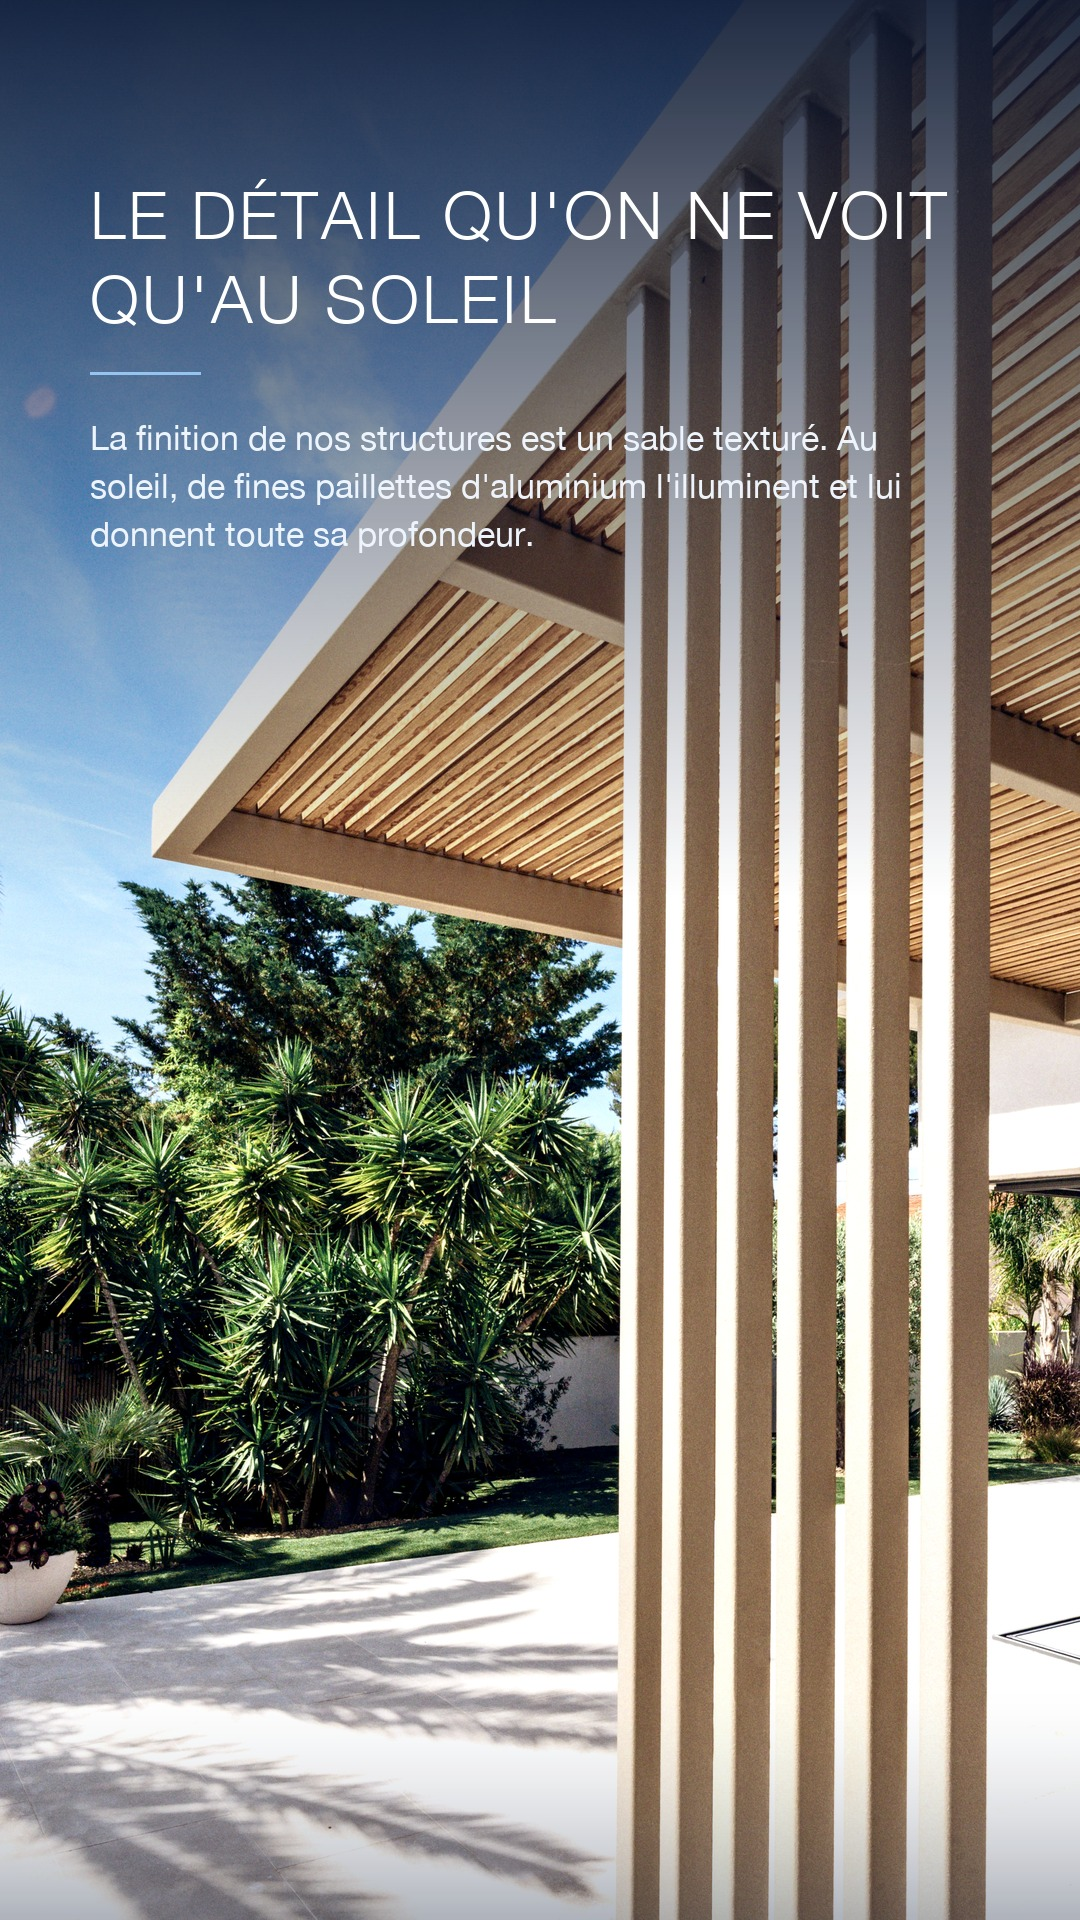
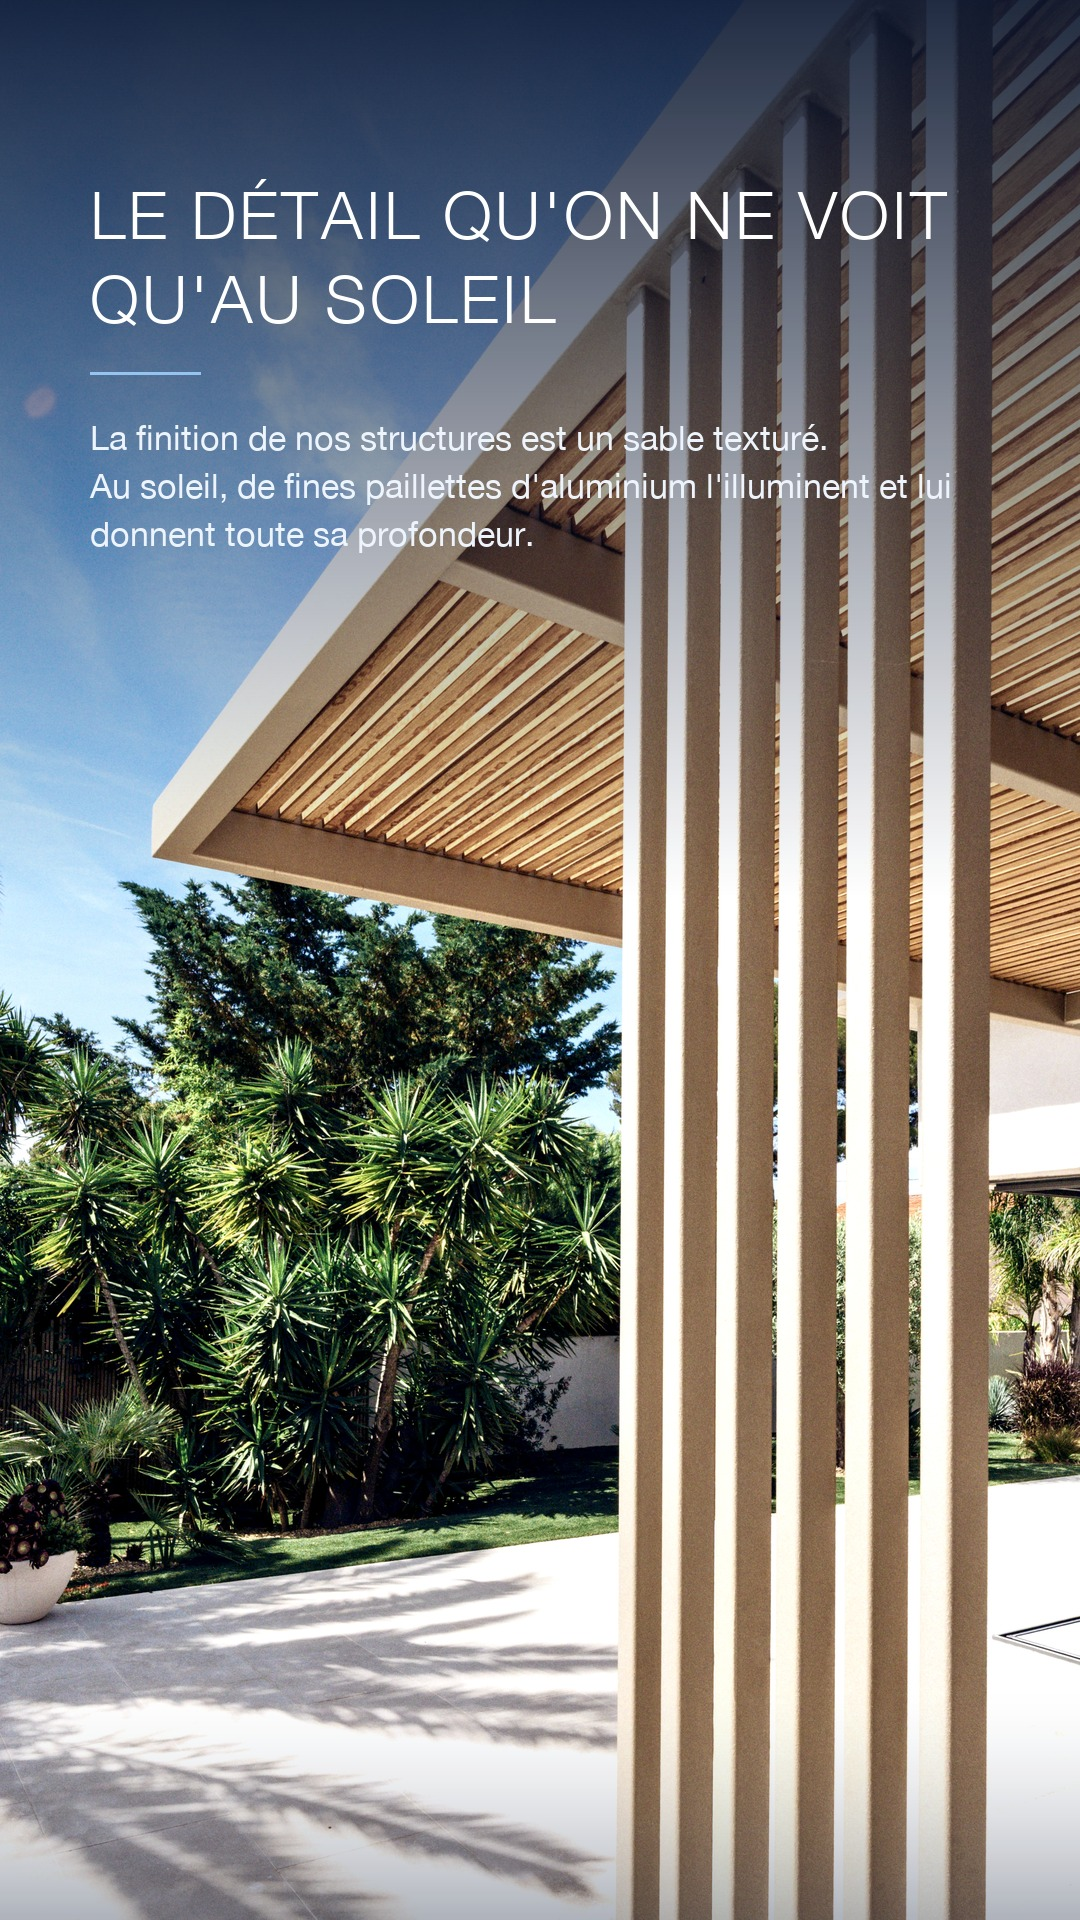
Typo Teck inscrite dans le brief, et retour à la ligne sur la story S3
Le client a validé le duo typographique : titre en Helvetica Neue Light tout
en capitales, sous-titre en Regular en écriture normale. La règle est
désormais dans brand-voice.md et vaut pour TOUS les visuels Teck (Instagram,
publicités, site internet), pas seulement les stories.

Sur la story S3, la phrase « Au soleil… » repart maintenant à la ligne.

Changed region(s): [[0.0917, 0.2188, 0.8556, 0.2812]]

diff --git a/index.html b/index.html
@@ -400,7 +400,8 @@ C'est ça, choisir Teck Aménagement : choisir le naturel et l'excellence sans c
     status:"apublier", date:"2026-07-27", heure:"18h00",
     cap:`LE DÉTAIL QU'ON NE VOIT QU'AU SOLEIL
 
-La finition de nos structures est un sable texturé. Au soleil, de fines paillettes d'aluminium l'illuminent et lui donnent toute sa profondeur.` },
+La finition de nos structures est un sable texturé.
+Au soleil, de fines paillettes d'aluminium l'illuminent et lui donnent toute sa profondeur.` },
 
   { id:"sombre", type:"story", num:7, img:"stories-maquettes/S-OMBRE.jpg", angle:"L'ombre n'est pas l'obscurité",
     status:"apublier", date:"2026-07-30", heure:"19h00",

diff --git a/scripts-stories.md b/scripts-stories.md
@@ -10,7 +10,8 @@ Aucune story le **mardi** (post photo) ni le **vendredi** (reel). Le **14 juille
 ## 🎯 Les règles d'écriture
 
 1. **Le titre évoque un moment ou une idée, jamais un produit** (référence : Porsche, « SKI DAYS THAT START WITH A SMILE »).
-2. **Le titre est TOUJOURS EN MAJUSCULES**, en Helvetica Neue Light (bâton, plein uniforme). **Le texte sous le titre reste en écriture normale** (première lettre en majuscule, le reste en minuscules). C'est ce contraste que Lilian a validé.
+2. **Typo Teck, validée par le client :** titre en **Helvetica Neue Light**, **TOUT EN MAJUSCULES**, interlettrage ouvert. Sous-titre et texte en **Helvetica Neue Regular**, en **écriture normale**. Jamais de serif, jamais de sous-titre en capitales. Règle complète (elle vaut pour tous les visuels Teck, site et publicités compris) : [brand-voice.md](../../briefs/brand-voice.md).
+3. **Si on met un point, on revient à la ligne.** Une nouvelle phrase ne se colle jamais à la fin de la précédente sur la même ligne.
 3. Sous le titre, **une info courte et vraiment utile** à quelqu'un qui a un projet. C'est ce qui a fait marcher les stories de Teck.
 4. **Aucun CTA, aucun hashtag.** La story installe la marque.
 5. On peut **surligner en bleu Teck** les mots qui portent le message (ex. « AUCUN ENTRETIEN »).
@@ -54,7 +55,8 @@ Des voilages de lin ou de coton, noués aux poteaux. On les déplie quand le sol
 > Format inspiré de Cauchi Design, passé à la charte Teck (bleu, aucun doré). **Ne jamais y ajouter un équipement que Teck ne propose pas.**
 
 ## S3 — LE DÉTAIL QU'ON NE VOIT QU'AU SOLEIL
-La finition de nos structures est un sable texturé. Au soleil, de fines paillettes d'aluminium l'illuminent et lui donnent toute sa profondeur.
+La finition de nos structures est un sable texturé.
+Au soleil, de fines paillettes d'aluminium l'illuminent et lui donnent toute sa profondeur.
 
 ## S-14JUIL — BON 14 JUILLET
 Belle fête à toutes et à tous… Avec les chaleurs record de cet été, n'oubliez pas de vous mettre à l'ombre !